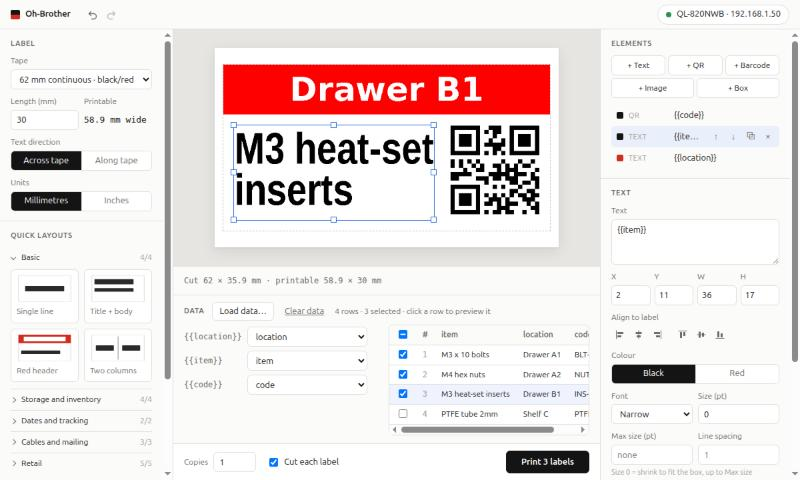
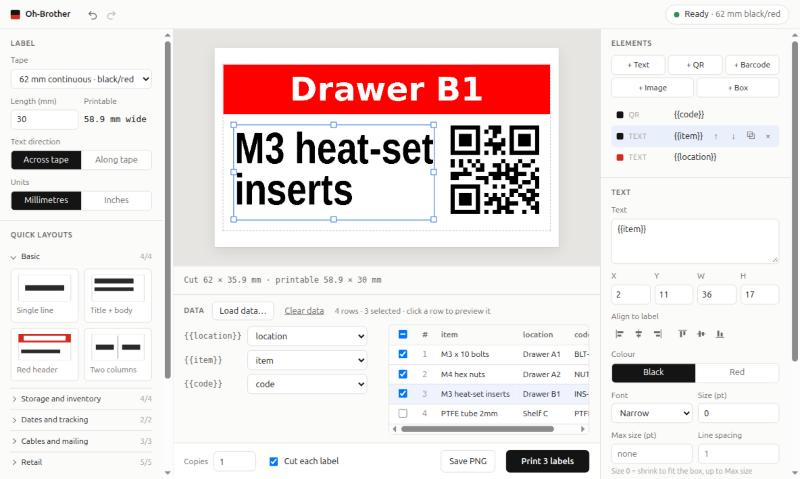
Retake the README screenshots for 0.6
The images still showed the printer chip as it was before 0.6, with the model and address, and no Save PNG button. They're retaken from the demo instance with the placeholder printer, in the same three scenes, and the chip shows a ready printer by answering its checks from the page, as the developer notes now describe.

diff --git a/docs/development.md b/docs/development.md
@@ -311,8 +311,19 @@ To retake them:
 
 1. Start a separate instance with its own port and data folder, such as `sh run.sh --no-browser --port 8630 --data <folder>`, and give it the printer address `192.168.1.50`. `.claude/launch.json` has one as `oh-brother-demo`.
 2. Set the browser pane's viewport to 1200 × 720, so the three columns and the data rows fit.
-3. Set up each scene. The current images show *Sample: Bin label* previewing row 3 of `samples/parts.csv`; two elements mid-drag, with a snap guide and the chained field `INS-{{size}}-5`; and the *Layered shelf tag* with a plain star as its image. No printer answers at the placeholder address, so the printer chip is set to a ready printer from the page with `ohBrother.drawPrinterChip({status: {state: "ready", errors: [], tape: {kind: "continuous", width_mm: 62, length_mm: 0, two_colour: true}}})`. It shows "Ready · 62 mm black/red", until the next check puts it back, five seconds later; the images in the README were taken before 0.6 and still show the old chip.
-4. Capture the whole pane as a PNG, 800 × 480, into `docs/images/`, and check each image for private details before committing.
+3. Set up each scene. The current images show *Sample: Bin label* previewing row 3 of `samples/parts.csv`, with rows 1 to 3 ticked; the *{{size}}* text and the QR code being dragged together, their bottom edge snapped to the barcode's with a guide, and the chained field `INS-{{size}}-5`; and the *Layered shelf tag* on 25 mm of continuous tape, with a plain star SVG as its image and the *Retail* layouts open. No printer answers at the placeholder address, so the printer chip is shown a ready printer by answering its checks from the page, in the browser's console:
+
+   ```js
+   const real = fetch;
+   fetch = async (url, o) => String(url).includes("/api/status")
+     ? new Response(JSON.stringify({ status: { state: "ready", errors: [], display: "READY", tape: { kind: "continuous",
+         width_mm: 62, length_mm: 0, two_colour: true, name: "Continuous length tape", matches: ["62red"] } },
+         summary: "Ready", mismatch: null, reachable: null }), { headers: { "Content-Type": "application/json" } })
+     : real(url, o);
+   ```
+
+   Within five seconds the chip says "Ready · 62 mm black/red", and stays so until the page is reloaded.
+4. Capture the whole pane as a PNG, 800 × 479, into `docs/images/`, and check each image for private details before committing.
 
 ## Commits
 

diff --git a/CHANGELOG.md b/CHANGELOG.md
@@ -17,6 +17,10 @@ The printer says what it has loaded, whether it's ready, and how far a print has
 - *Test connection* says what the printer reports, such as "Printer reachable · Ready · 62 mm black/red continuous tape" or "Cover open".
 - The app asks over SNMP, which Brother's network printers answer from the factory. Read from a QL-820NWB with 62 mm black/red tape, 29 × 90 mm labels, no tape and the cover open; other tapes, errors and printers aren't tested yet. A printer that doesn't answer prints as before.
 
+### Changed
+
+- The README's screenshots are retaken, with the new printer chip and the Save PNG button.
+
 ## 0.5.0 · 2026-11-11
 
 The editor from the keyboard, tests for its code, and checked downloads.
